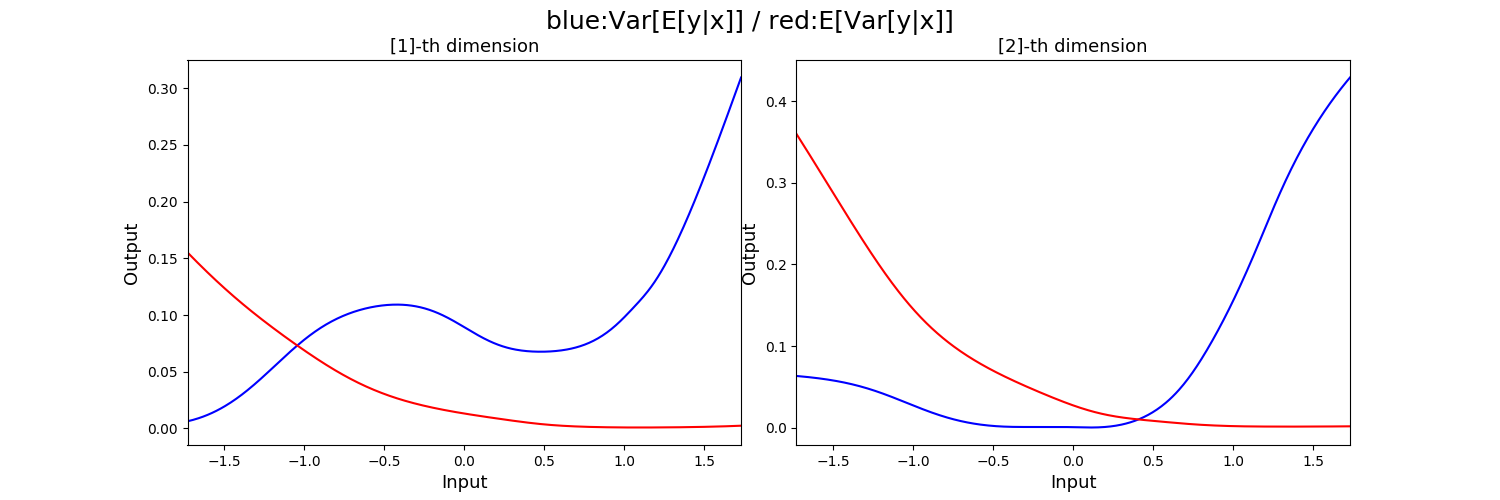
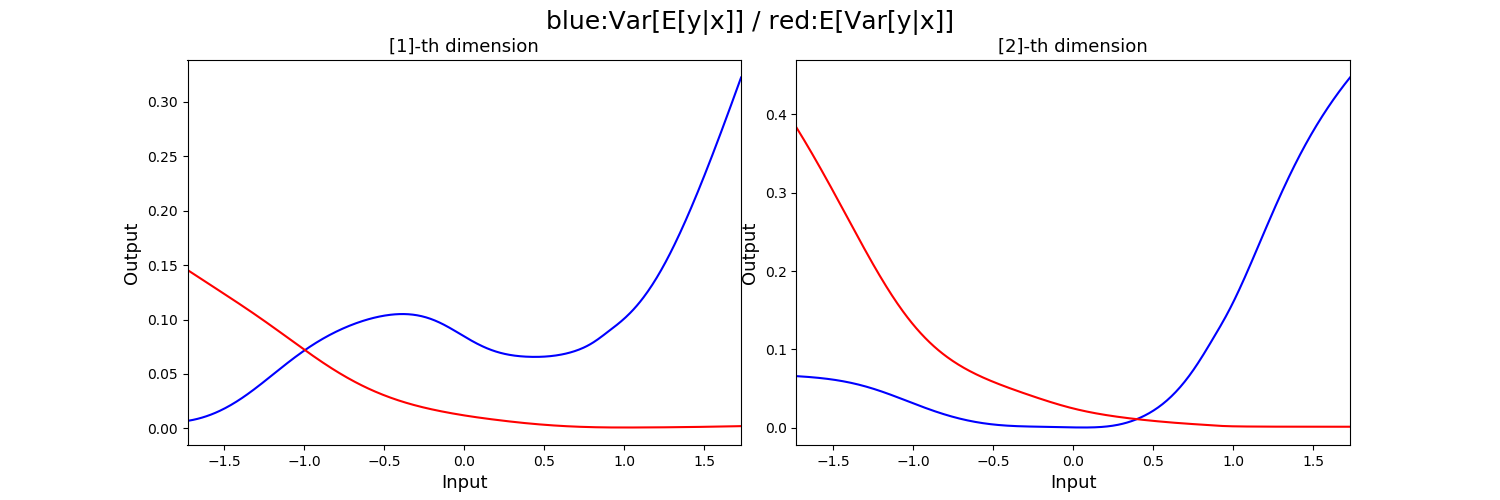
add batch_normalization

diff --git a/subclass_model.py b/subclass_model.py
@@ -191,15 +191,15 @@ class MDN_reg_class(Model):
                 model.add(Dense(hid, name="hidden_layer_" + str(idx),
                                 kernel_regularizer=l2(self.l2_reg_coef),
                                 dtype=tf.float32,
-                                input_shape=(None,self.x_dim),
+                                input_shape=(self.batch_size,self.x_dim),
                                 activation=self.actv))
-                model.add(BatchNormalization())
+                # model.add(BatchNormalization())
             else:
                 model.add(Dense(hid, name="hidden_layer_"+str(idx),
                             kernel_regularizer=l2(self.l2_reg_coef),
                                 dtype=tf.float32,
                                 activation=self.actv))
-                model.add(BatchNormalization())
+                # model.add(BatchNormalization())
 
         return model
 

diff --git a/demo_mdn.py b/demo_mdn.py
@@ -99,6 +99,6 @@ if __name__ =='__main__':
     else :
         optimizer = Adam(opt.lr)
     # plot_model(M, to_file='model.png')
-    M(x_train[:100])
+    M(x_train[:opt.batch_size])
     # train
     train(M, optimizer, x_train, y_train, x_test, opt.num_epoch, opt.batch_size)
